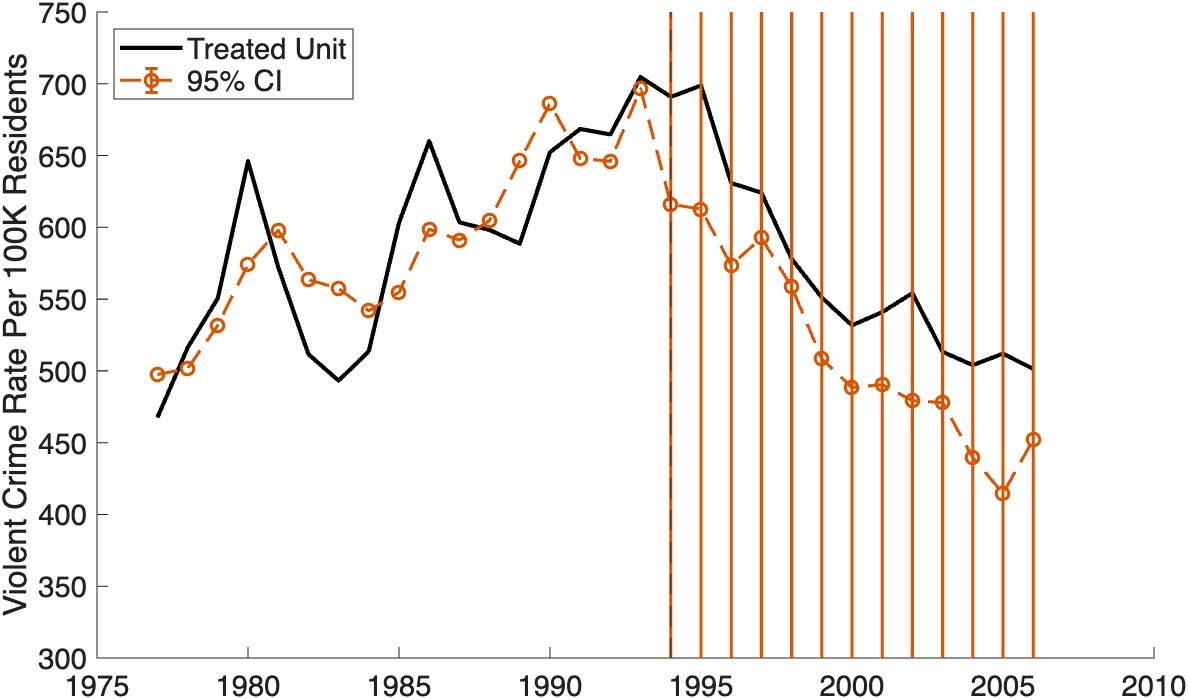
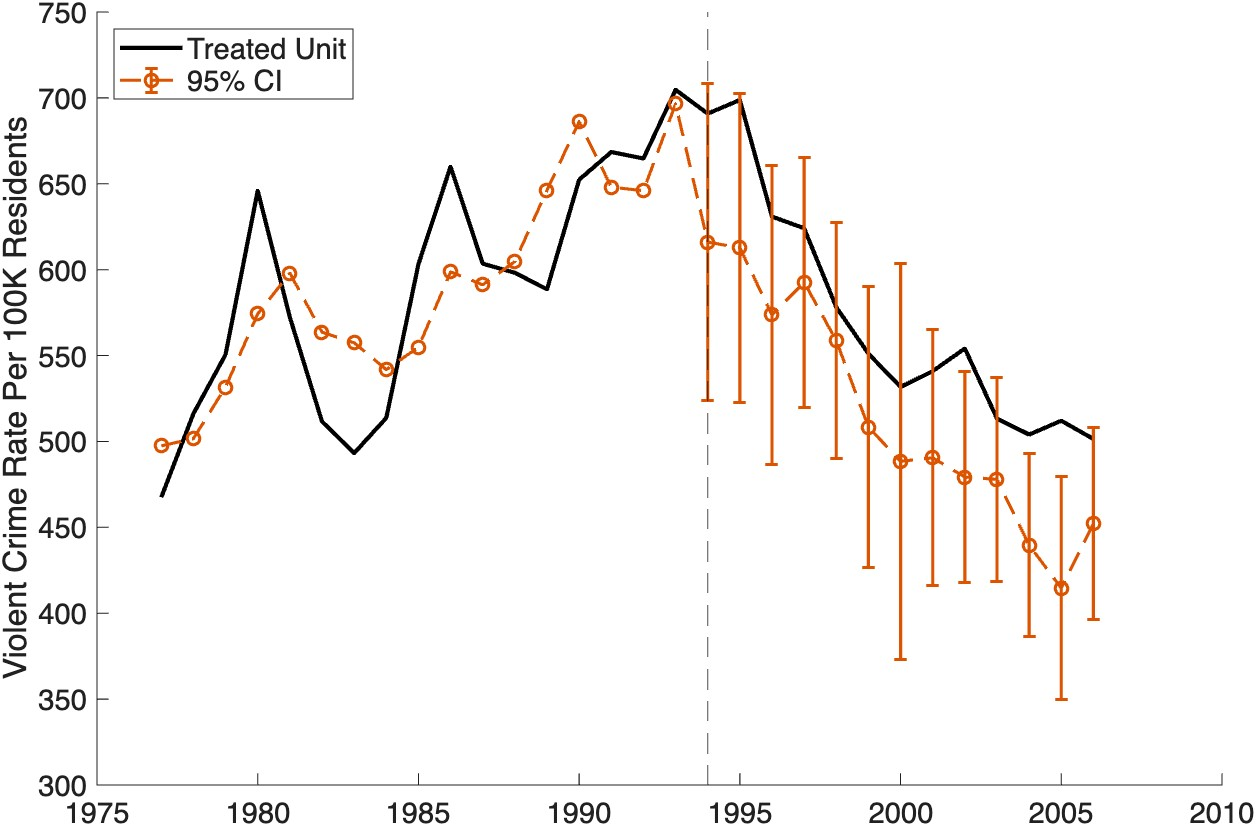
updated

Changed region(s): [[0.0, 0.0, 1.0, 1.0]]

diff --git a/src/cal_pointvar.m b/src/cal_pointvar.m
@@ -1,4 +1,4 @@
-function Sigma_t = cal_pointvar(y,F,h,T1)
+function Sigma_t = cal_pointvar(F, beta, u_hat, h, T1)
 % CAL_POINTVAR Calculates pointwise variance for the counterfactual path
 %
 % This function estimates the variance of the counterfactual
@@ -6,34 +6,34 @@ function Sigma_t = cal_pointvar(y,F,h,T1)
 % pointwise confidence intervals 
 %
 % Inputs:
-%   y  : (N x T) Outcome vector of the control units.
-%   F  : (T x J) Estimated factors.
-%   h  : Scalar bandwidth.
-%   T1 : Integer. Number of post-treatment periods.
+%   F     : (T x J) Estimated factors.
+%   beta  : (J x T1) estimated loadings for post-treatment periods.
+%   u_hat : (1 x T0) Residual for the pre-treatment period.
+%   h     : Scalar bandwidth.
+%   T1    : Integer. Number of post-treatment periods.
 %
 % Output:
 %   Sigma_t : (T1 x 1) Vector of variances for t = T0+1 to T.
-    [N,T] = size(y); % control outcomes
+    [T,~] = size(F);
     T0 = T-T1;
-    Sigma_t = zeros(T1,1);
-    Th = T * h;
-    for t = T0+1:T
-        K = ((1:T) - t ) / Th;
-        if t > T - Th % right boundary t
-            tmp = t/Th;
-            tmp = (tmp + (tmp^3)/3 + 2/3) * 3/4; % denomiator adjustment
-            k = 0.75 * (1 - K.^2) .* (abs(K)<=1) ./ tmp;
-        elseif t < Th % left boundary t
-            tmp = (1-t/T)/h;
-            tmp = (tmp - (tmp^3)/3 + 2/3) * 3/4; % denomiator adjustment
-            k = 0.75 * (1 - K.^2) .* (abs(K)<=1) ./ tmp;
-        else
-            k = 0.75 * (1 - K.^2) .* (abs(K)<=1);
-        end
-        X00 = [F,F.*(((1:T) - t) / T)'];
-        beta = pinv(X00'*diag(k)*X00) * (X00'*diag(k)*y'  );
-        fitted = X00 * beta;
-        fitted_demean = fitted(t,:) - mean(fitted(t,:));
-        var_t = sum(fitted_demean.^2) / (N-1);
-        Sigma_t(t-T0) = var_t;
-    end
+
+    F0 = F(1:T0,:);
+    F1 = F(T0+1:end,:);
+    T1h = floor(T1 * h);
+    T0h = floor(T0 * h);
+
+    KT0 = ((1:T0)-T0 ) /T0h;
+    kT0 = 0.75 * (1 - KT0.^2).*(KT0 >= -1).*2 ;
+    KT1 = ((T0+1:T)-T0 ) /T1h;
+    kT1 = 0.75 * (1 - KT1.^2).*(KT1 <= 1).*2;
+
+    beta_demean = beta - sum(beta .* kT1,2)/T1h;
+    beta_demean = beta_demean .* sqrt(kT1);
+
+    Sigma_t1 =  diag(F1 * beta_demean * beta_demean'* F1') ./T1h;
+
+    xi_inv = pinv(F0'*diag(kT0)*F0);
+    Sigma_t2 =  diag(F1 * xi_inv * (F0'*diag(kT0)*diag(diag(u_hat' * u_hat )) *diag(kT0) * F0) *xi_inv * F1')./T0h;
+
+    Sigma_t = Sigma_t1 + Sigma_t2;
+end

diff --git a/atel.m b/atel.m
@@ -96,7 +96,7 @@ function results = atel(Y, X, T0, varargin)
     %% 7. Inference (Asymptotic Normality)
 
     % Calculate standard error
-    [Sigma, Y1_hat_pre] = cal_var(Y1,F0,F1,h);
+    [Sigma, Y1_hat_pre, u_hat] = cal_var(Y1,F0,F1,h);
     se_atel = sqrt(Sigma);
 
     % construct counterfactul outcomes
@@ -112,7 +112,7 @@ function results = atel(Y, X, T0, varargin)
     p_val = 2 * tcdf(-abs(t_stat), T1h-1);
 
     % Calculate pointwise standard error for counterfactual outcomes
-    Sigma_point = cal_pointvar(Y_N,F,h,T1);
+    Sigma_point = cal_pointvar(F,beta,u_hat,h,T1);
     se_point = sqrt(Sigma_point);
     %% 8. Pack Results
     results.atel = atel_val;
@@ -123,7 +123,4 @@ function results = atel(Y, X, T0, varargin)
     results.optimal_h = h;
     results.p_val = p_val;
     results.se_point=se_point;
-    results.W = W;
-    results.F = F;
-    results.beta = beta;
 end

diff --git a/src/cal_var.m b/src/cal_var.m
@@ -1,4 +1,4 @@
-function [Sigma, pre_Y_hat] = cal_var(y,F0,F1,h)
+function [Sigma, pre_Y_hat, u_hat] = cal_var(y,F0,F1,h)
 % CAL_VAR Calculates the asymptotic variance of the ATEL estimator
 %
 % This function estimates the variance components defined in Theorem 1.
@@ -15,6 +15,8 @@ function [Sigma, pre_Y_hat] = cal_var(y,F0,F1,h)
 % Output:
 %   Sigma : scalar variance.
 %   Pre_Y_hat : (1 x T0) Estimated Y hat for the pre-treatment period.
+%   u_hat : (1 x T0) Residual for the pre-treatment period.
+
     [T0,J] = size(F0);
     T = length(y);
     T1 = T-T0;

diff --git a/src/estimate_IFE.m b/src/estimate_IFE.m
@@ -31,7 +31,7 @@ function results = estimate_IFE(y,X,T0,J,h)
     
     % Use Control Units (Rows 2:end) to estimate common structure
     [beta, F] = IFE(y(2:end,:)',XX(:,2:end,:),J);
-    beta = beta(end,1:J);
+    beta = beta(end,1:pp);
     
     %% Estimate Loadings for Treated Unit (Projection)
     X_treated = squeeze(XX(:, 1, :)); % T x P
